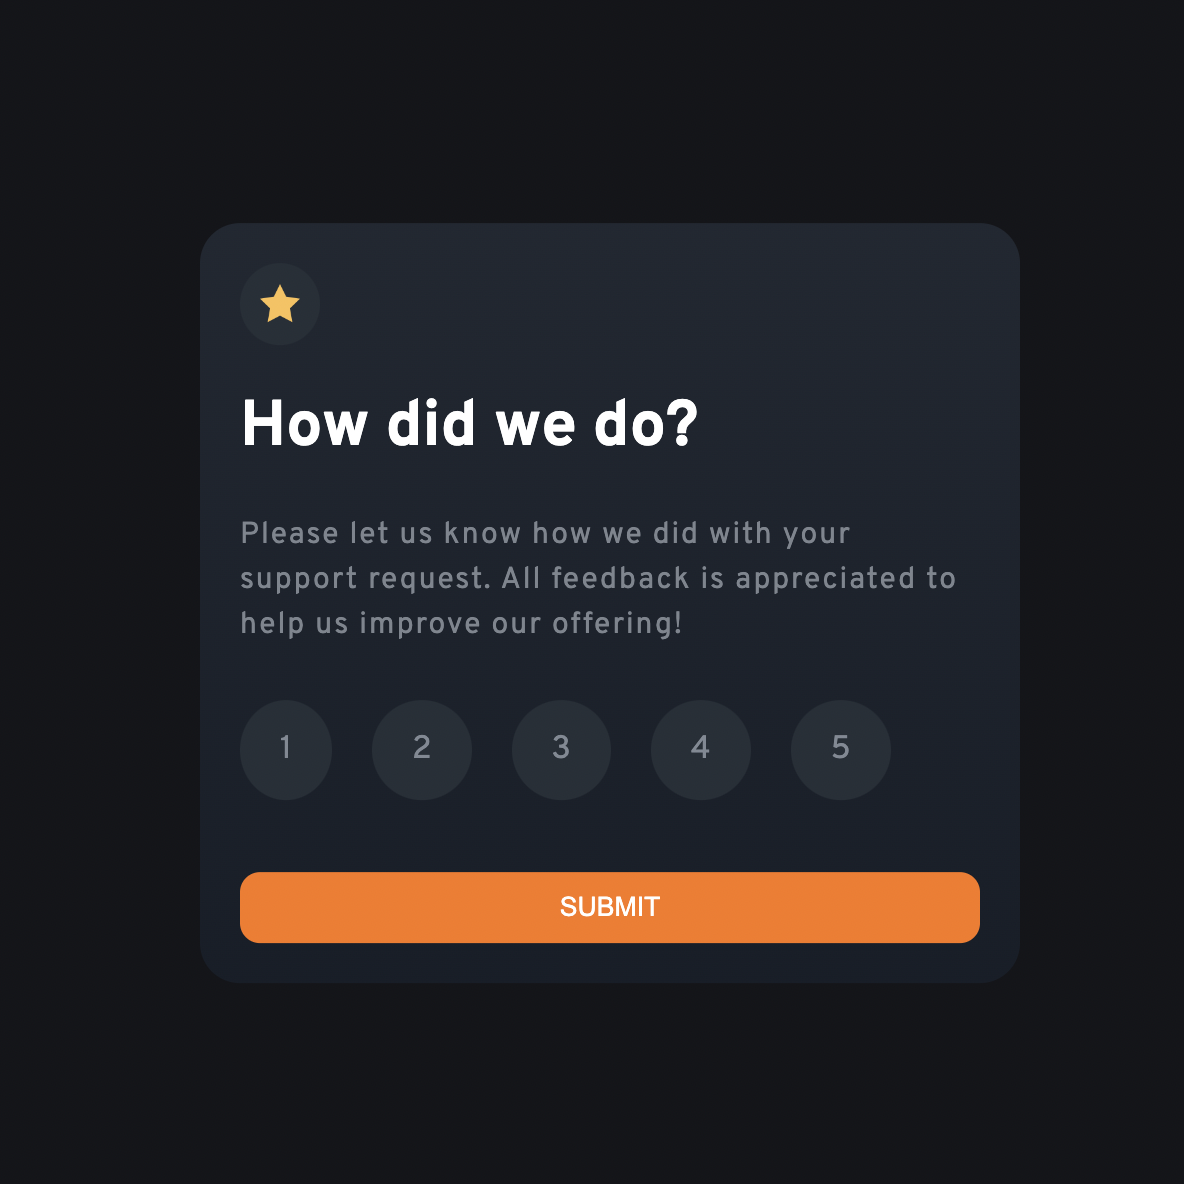
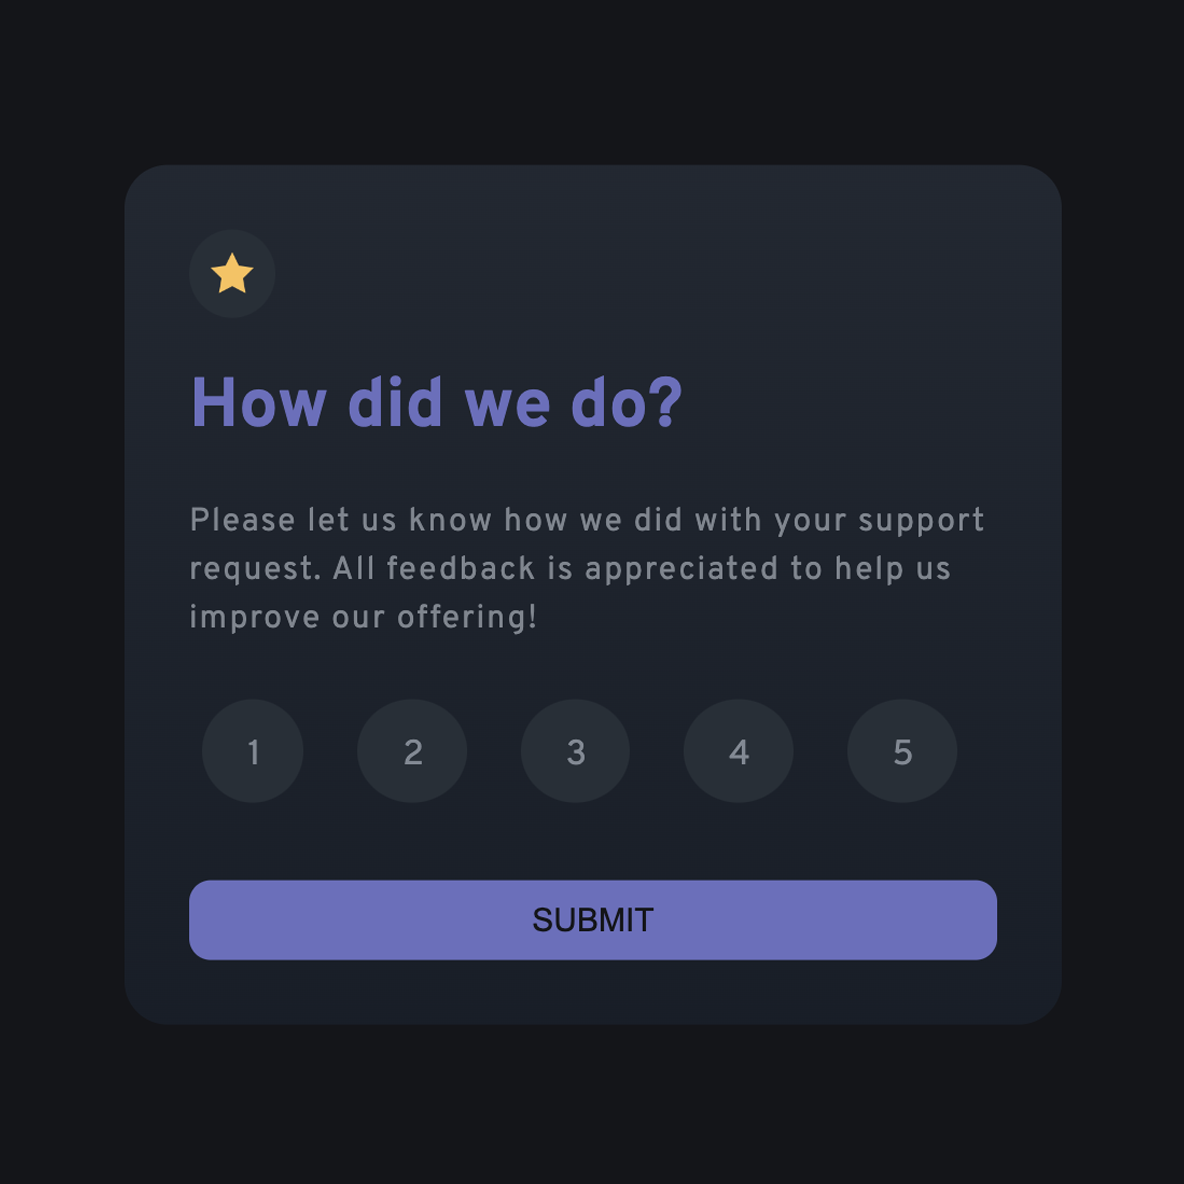
rating component design changed

diff --git a/pages/rating-component/style.css b/pages/rating-component/style.css
@@ -4,6 +4,10 @@ body {
     color: white;
 }
 
+h1 {
+    color: #6a6fbf
+}
+
 .card {
     position: absolute;
     top: 45%;
@@ -41,7 +45,7 @@ a {
 }
 
 .active {
-    background: #ff750e;
+    background: #6a6fbf;
     color: white;
 }
 
@@ -63,8 +67,8 @@ button {
     border-radius: 10px;
     width: 100%;
     border: none;
-    background: #eb7e35;
-    color: white;
+    background: #6a6fbf;
+    color: #141519;
     cursor: pointer;
     transition: all 0.3s;
 }
@@ -100,6 +104,7 @@ a:clicked {
     justify-content: center;
     display: flex;
     margin-bottom: 30px;
+    width: 100px;
 }
 
 .greetings-text {
@@ -110,7 +115,7 @@ a:clicked {
     display: flex;
     border-radius: 20px;
     line-height: 2;
-    color: #eb7e35;
+    color: #6a6fbf;
     letter-spacing: 1;
 }
 

diff --git a/pages/rating-component/index.html b/pages/rating-component/index.html
@@ -28,7 +28,7 @@
             <button onclick="onSubmit()" class="submit-button">SUBMIT</button>
         </div>
         <div class="greetings d-none">
-            <img src="img/illustration-thank-you.svg" alt="">
+            <img src="img/paper-plane.png" alt="">
             <span class="greetings-text">You selected&nbsp;
                 <span class="value-selected">
 
